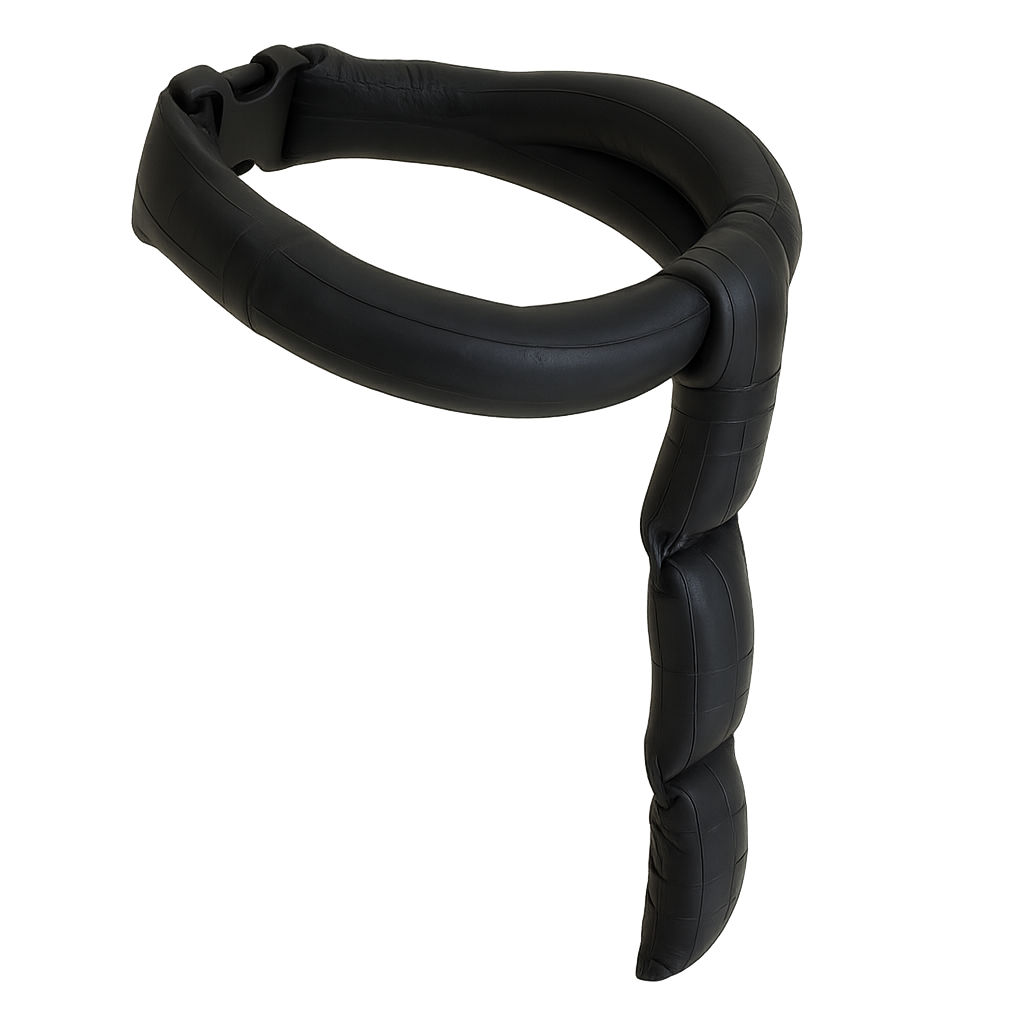
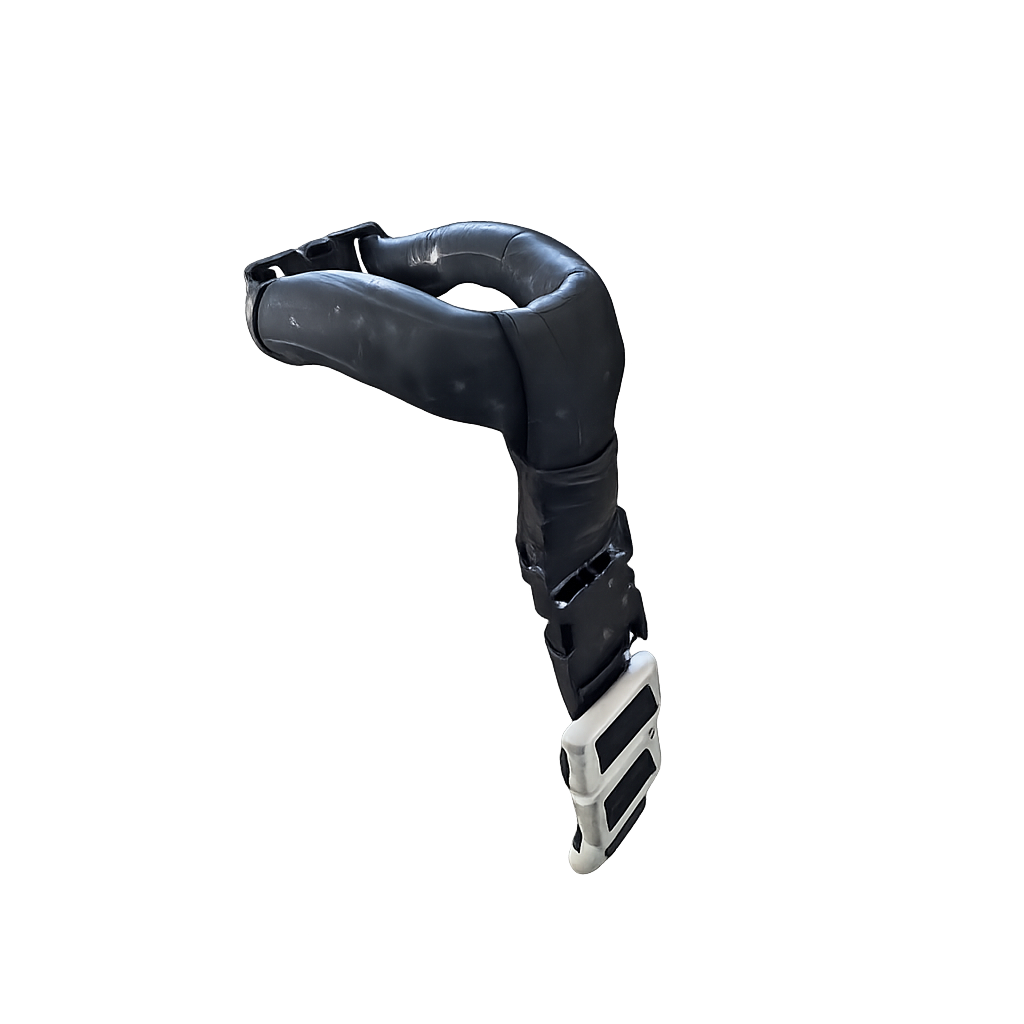
feat: add the neck weight

Changed region(s): [[0.125, 0.0312, 0.7812, 0.9688]]

diff --git a/docs/techniques/creating-modular-weights/v2/belt-loop-weight.md b/docs/techniques/creating-modular-weights/v2/belt-loop-weight.md
@@ -1,0 +1,92 @@
+---
+status: proven
+time_to_implement: 0.25
+waiting_time: 0
+versions_table:
+  notes: >-
+    Back-hanging weight belt clipped to the neck-collar loop; 60 mm belt with removable 500 g weights and slide stopper.
+  highlights:
+    modularity: pastel-green
+tools_required:
+  - name: Scissors
+    purpose: Trim inner tube and tidy belt tape ends if needed
+  - name: Gloves
+    purpose: Keep hands clean while handling lead weights
+bill_of_materials:
+  - material: materials/bike-inner-tube.md
+    name: Bike inner tube (loop)
+    description: Small loop that clips to the neck-collar ring
+    quantity:
+      amount: 0.1
+      unit: tube
+  - material: materials/quick-release-buckle-60mm.md
+    name: Quick-release buckle (60 mm)
+    description: Connects the collar loop to the belt
+    quantity:
+      amount: 1
+      unit: buckle
+  - material: materials/weight-belt-60mm.md
+    name: Weight belt (60 mm)
+    description: Carries the dive weights
+    quantity:
+      amount: 1
+      unit: belt
+  - material: materials/lead-weight-500g.md
+    name: 500 g dive weight
+    description: Belt-mountable lead weights
+    quantity:
+      amount: 3
+      unit: weight
+  - material: materials/slide-stopper-60mm.md
+    name: Slide stopper (60 mm)
+    description: Locks the stack of weights from moving
+    quantity:
+      amount: 1
+      unit: stopper
+---
+# {{ parent_child_title() }}
+{{ status_banner() }}
+
+## Goal
+Add adjustable back-hanging ballast that clips into the existing neck-collar loop, using a 60 mm belt with removable 500 g weights.
+
+## Reference Images
+
+| ![Components laid out](nk_components.jpeg) | ![Belt threaded with weights](nk_total.jpeg) | ![Finished collar](nk_final.jpeg) |
+|-------------------------------------------|----------------------------------------------|-----------------------------------|
+| Components laid out                       | Belt threaded with weights                   | Finished collar                   |
+
+## Time needed
+
+{{ render_technique_time_overview() }}
+
+## Bill of Materials
+
+{{ render_bill_of_materials() }}
+
+## Tools Required
+{{ render_tools_required() }}
+
+## Instructions (step-by-step)
+1. **Make the collar attachment**  
+     - Cut a short inner-tube loop sized to clip onto the neck collar ring (from [Neck collar – Lead tube](../../creating-neck-collar/v1/lead-tube.md)).  
+     - Thread both ends through the 60 mm quick-release buckle and close it. This loop is only an anchor point, not a neck strap.  
+
+2. **Thread the belt**  
+     - Pass the 60 mm belt through the buckle that hangs from the collar attachment.  
+     - Slide on three 500 g weights, clustering them near the buckle end so they sit between shoulder blades.  
+
+3. **Lock the weights**  
+     - Add the 60 mm slide stopper after the last weight to keep the stack from shifting.  
+
+4. **Fit and adjust**  
+     - Wear the neck collar, clip in the belt, and snug so weights rest along the upper back.  
+     - Add or remove 500 g weights to hit your target total; the same weights can be reused for depth diving.  
+
+## Benefits
+- Fully modular: change total weight by adding/removing standard dive weights.
+- Hangs down the back for better weight distribution and comfort.
+- Reuses common belt hardware; easy to repair or replace parts.
+
+## Limitations
+- Ensure buckle and stopper are true 60 mm; mismatched sizes can slip.

diff --git a/docs/projects/neck-weight/v2/belt-loop-neck-weight.md b/docs/projects/neck-weight/v2/belt-loop-neck-weight.md
@@ -1,0 +1,50 @@
+---
+status: proven
+techniques:
+  - title: Creating the Neck Collar
+    focus: Creating the neck collar
+    path: techniques/creating-neck-collar/v1/lead-tube.md
+  - title: Creating the Modular Weights
+    focus: Back-hanging modular weights
+    path: techniques/creating-modular-weights/v2/belt-loop-weight.md
+    consumable_scaling_factor: 3
+---
+# Neck Weight v2 — Belt Loop Modular Weights on Collar
+{{ status_banner() }}
+
+Soft lead-filled collar from V1, plus an adjustable 60 mm belt with modular 500 g weights that hangs down the back.
+
+Example setup (your numbers may vary):
+- Collar: ~3.5 kg lead-filled tube
+- Collar loop + buckle: ~0.5 kg
+- Belt weights: 3 × 500 g = 1.5 kg
+- **Total:** ~5.5 kg
+
+## Reference images
+
+| ![Collar closed](lt_closed.png) | ![Collar open](lt_open.png) |
+|--------------------------------------------------------------------------|---------------------------------------------------------------------|
+| Collar closed                                                           | Collar open                                                         |
+
+| ![Components laid out](nk_components.jpeg) | ![Belt threaded](nk_total.jpeg) | ![Finished collar + belt](nk_final.jpeg) |
+|-------------------------------------------------------------------------------------------------------------|----------------------------------------------------------------------------------------------------------|------------------------------------------------------------------------------------------------------------|
+| Components laid out                                                                                         | Belt with weights and stopper                                                                            | Finished collar with back-hanging belt                                                                     |
+
+## Time needed
+
+{{ render_project_time_breakdown() }}
+
+## Bill of Materials
+{{ render_technique_requirements_bill_of_materials() }}
+
+## Tools Required
+{{ render_technique_requirements_tools() }}
+
+## Instructions
+1. Build the soft neck collar following [Creating the Neck Collar](../../../techniques/creating-neck-collar/v1/lead-tube.md); target ~3 kg filled tube with quick release.  
+2. Assemble the modular back belt using [Belt loop weights](../../../techniques/creating-modular-weights/v2/belt-loop-weight.md); start with three 500 g weights on a 60 mm belt and slide stopper.  
+3. Clip the belt’s quick-release onto the collar loop, hang the weights down the back, and adjust count/position for comfort and buoyancy.  
+
+## Notes
+- Total weight is now split: fixed collar mass + adjustable belt weights; easy to reuse the belt weights for depth diving.  
+- Ensure all buckles/stoppers are 60 mm to prevent slip.  

diff --git a/docs/materials/weight-belt-60mm.md b/docs/materials/weight-belt-60mm.md
@@ -1,0 +1,33 @@
+---
+material:
+  costing:
+    usage_type: reusable
+  purchases:
+    - supplier: "Amazon"
+      url: "https://www.amazon.co.uk/dp/B00D07HSQY?ref_=ppx_hzsearch_conn_dt_b_fed_asin_title_2"
+      region: UK
+      date: 2026-02
+      unit: 60 mm nylon weight belt
+      price:
+        amount: 9.00
+        currency: GBP
+      notes: "Standard 60 mm diving weight belt with no weights included."
+---
+# Weight Belt (60 mm)
+
+Sturdy 60 mm nylon diving belt for carrying modular lead weights; pairs with a separate release buckle.
+
+## Overview
+- Wide 60 mm webbing fits common dive weights and slide stoppers.
+- Reusable across pool and depth sessions; swap weights as needed.
+
+## Purchase history
+
+{{ render_material_purchases() }}
+
+## Usage notes
+- Match belt width to the buckle (60 mm) and slide stopper for secure adjustment.
+- Rinse after saltwater use to prevent salt buildup in the weave.
+
+## Related techniques
+- [Creating Modular Weights – V2 Belt Loop Weights](../techniques/creating-modular-weights/v2/belt-loop-weight.md)

diff --git a/docs/materials/lead-weight-500g.md b/docs/materials/lead-weight-500g.md
@@ -1,0 +1,33 @@
+---
+material:
+  costing:
+    usage_type: reusable
+  purchases:
+    - supplier: "Amazon"
+      url: "https://www.amazon.co.uk/dp/B0C3TMSPT4?ref_=ppx_hzsearch_conn_dt_b_fed_asin_title_2"
+      region: UK
+      date: 2026-02
+      unit: 500 g lead dive weight
+      price:
+        amount: 10.00
+        currency: GBP
+      notes: "Standard 500 g coated dive weight for belts."
+---
+# 500 g Dive Weight
+
+Half-kilo lead weight with belt slot, used for adjustable neck-collar ballast.
+
+## Overview
+- Fits 60 mm belts; coating protects the belt and reduces oxidation transfer.
+- Modular — add or remove to hit target neck weight quickly.
+
+## Purchase history
+
+{{ render_material_purchases() }}
+
+## Usage notes
+- Seat weights firmly against the buckle and slide stopper to minimise movement.
+- Rinse after use to avoid residue buildup on belts or buckles.
+
+## Related techniques
+- [Creating Modular Weights – V2 Belt Loop Weights](../techniques/creating-modular-weights/v2/belt-loop-weight.md)

diff --git a/docs/materials/quick-release-buckle-60mm.md b/docs/materials/quick-release-buckle-60mm.md
@@ -1,0 +1,31 @@
+---
+material:
+  costing:
+    usage_type: reusable
+  purchases:
+    - supplier: "Generic"
+      region: UK
+      unit: 60 mm quick-release buckle
+      price:
+        amount: 2.50
+        currency: GBP
+      notes: "Plastic release buckle sized for 60 mm weight belts."
+---
+# Quick-Release Buckle (60 mm)
+
+Wide release buckle used to connect the inner-tube loop to the weight belt for the modular neck collar.
+
+## Overview
+- Matches 60 mm webbing to avoid pinch points or slipping.
+- Provides fast release for safety while keeping the collar secure in use.
+
+## Purchase history
+
+{{ render_material_purchases() }}
+
+## Usage notes
+- Verify both sides are 60 mm compatible; mix-and-match sizes can slip under load.
+- Inspect for grit/salt in the mechanism and rinse after use.
+
+## Related techniques
+- [Creating Modular Weights – V2 Belt Loop Weights](../techniques/creating-modular-weights/v2/belt-loop-weight.md)

diff --git a/docs/materials/slide-stopper-60mm.md b/docs/materials/slide-stopper-60mm.md
@@ -1,0 +1,28 @@
+---
+material:
+  costing:
+    usage_type: reusable
+  purchases:
+    - supplier: "Generic"
+      region: UK
+      unit: 60 mm slide stopper
+      notes: "Inexpensive stainless or plastic stopper for 60 mm belts."
+---
+# Slide Stopper (60 mm)
+
+Simple belt slide to lock weights in place on a 60 mm diving belt.
+
+## Overview
+- Prevents weights from shifting along the belt during dives.
+- Works with nylon belts and 60 mm buckles.
+
+## Purchase history
+
+{{ render_material_purchases() }}
+
+## Usage notes
+- Position at the tail end after the last weight to stop sliding.
+- Check for corrosion or cracks periodically if used in saltwater.
+
+## Related techniques
+- [Creating Modular Weights – V2 Belt Loop Weights](../techniques/creating-modular-weights/v2/belt-loop-weight.md)

diff --git a/docs/index.md b/docs/index.md
@@ -40,8 +40,8 @@ hide:
       <div class="hero-shield__body">
         <h2>Modular Neck Weight</h2>
         <div class="hero-shield__cta">
-          <span class="hero-shield__price">from £60 / set</span>
-          <a class="hero-shield__button" href="projects/neck-weight/v1/modular-lead-tube" aria-label="Build the Modular Neck Weight project">
+          <span class="hero-shield__price">from £70 / set</span>
+          <a class="hero-shield__button" href="projects/neck-weight/v2/belt-loop-neck-weight/" aria-label="Build the Modular Neck Weight project">
             <span>Build</span>
             <span class="hero-link-arrow" aria-hidden="true">→</span>
           </a>
